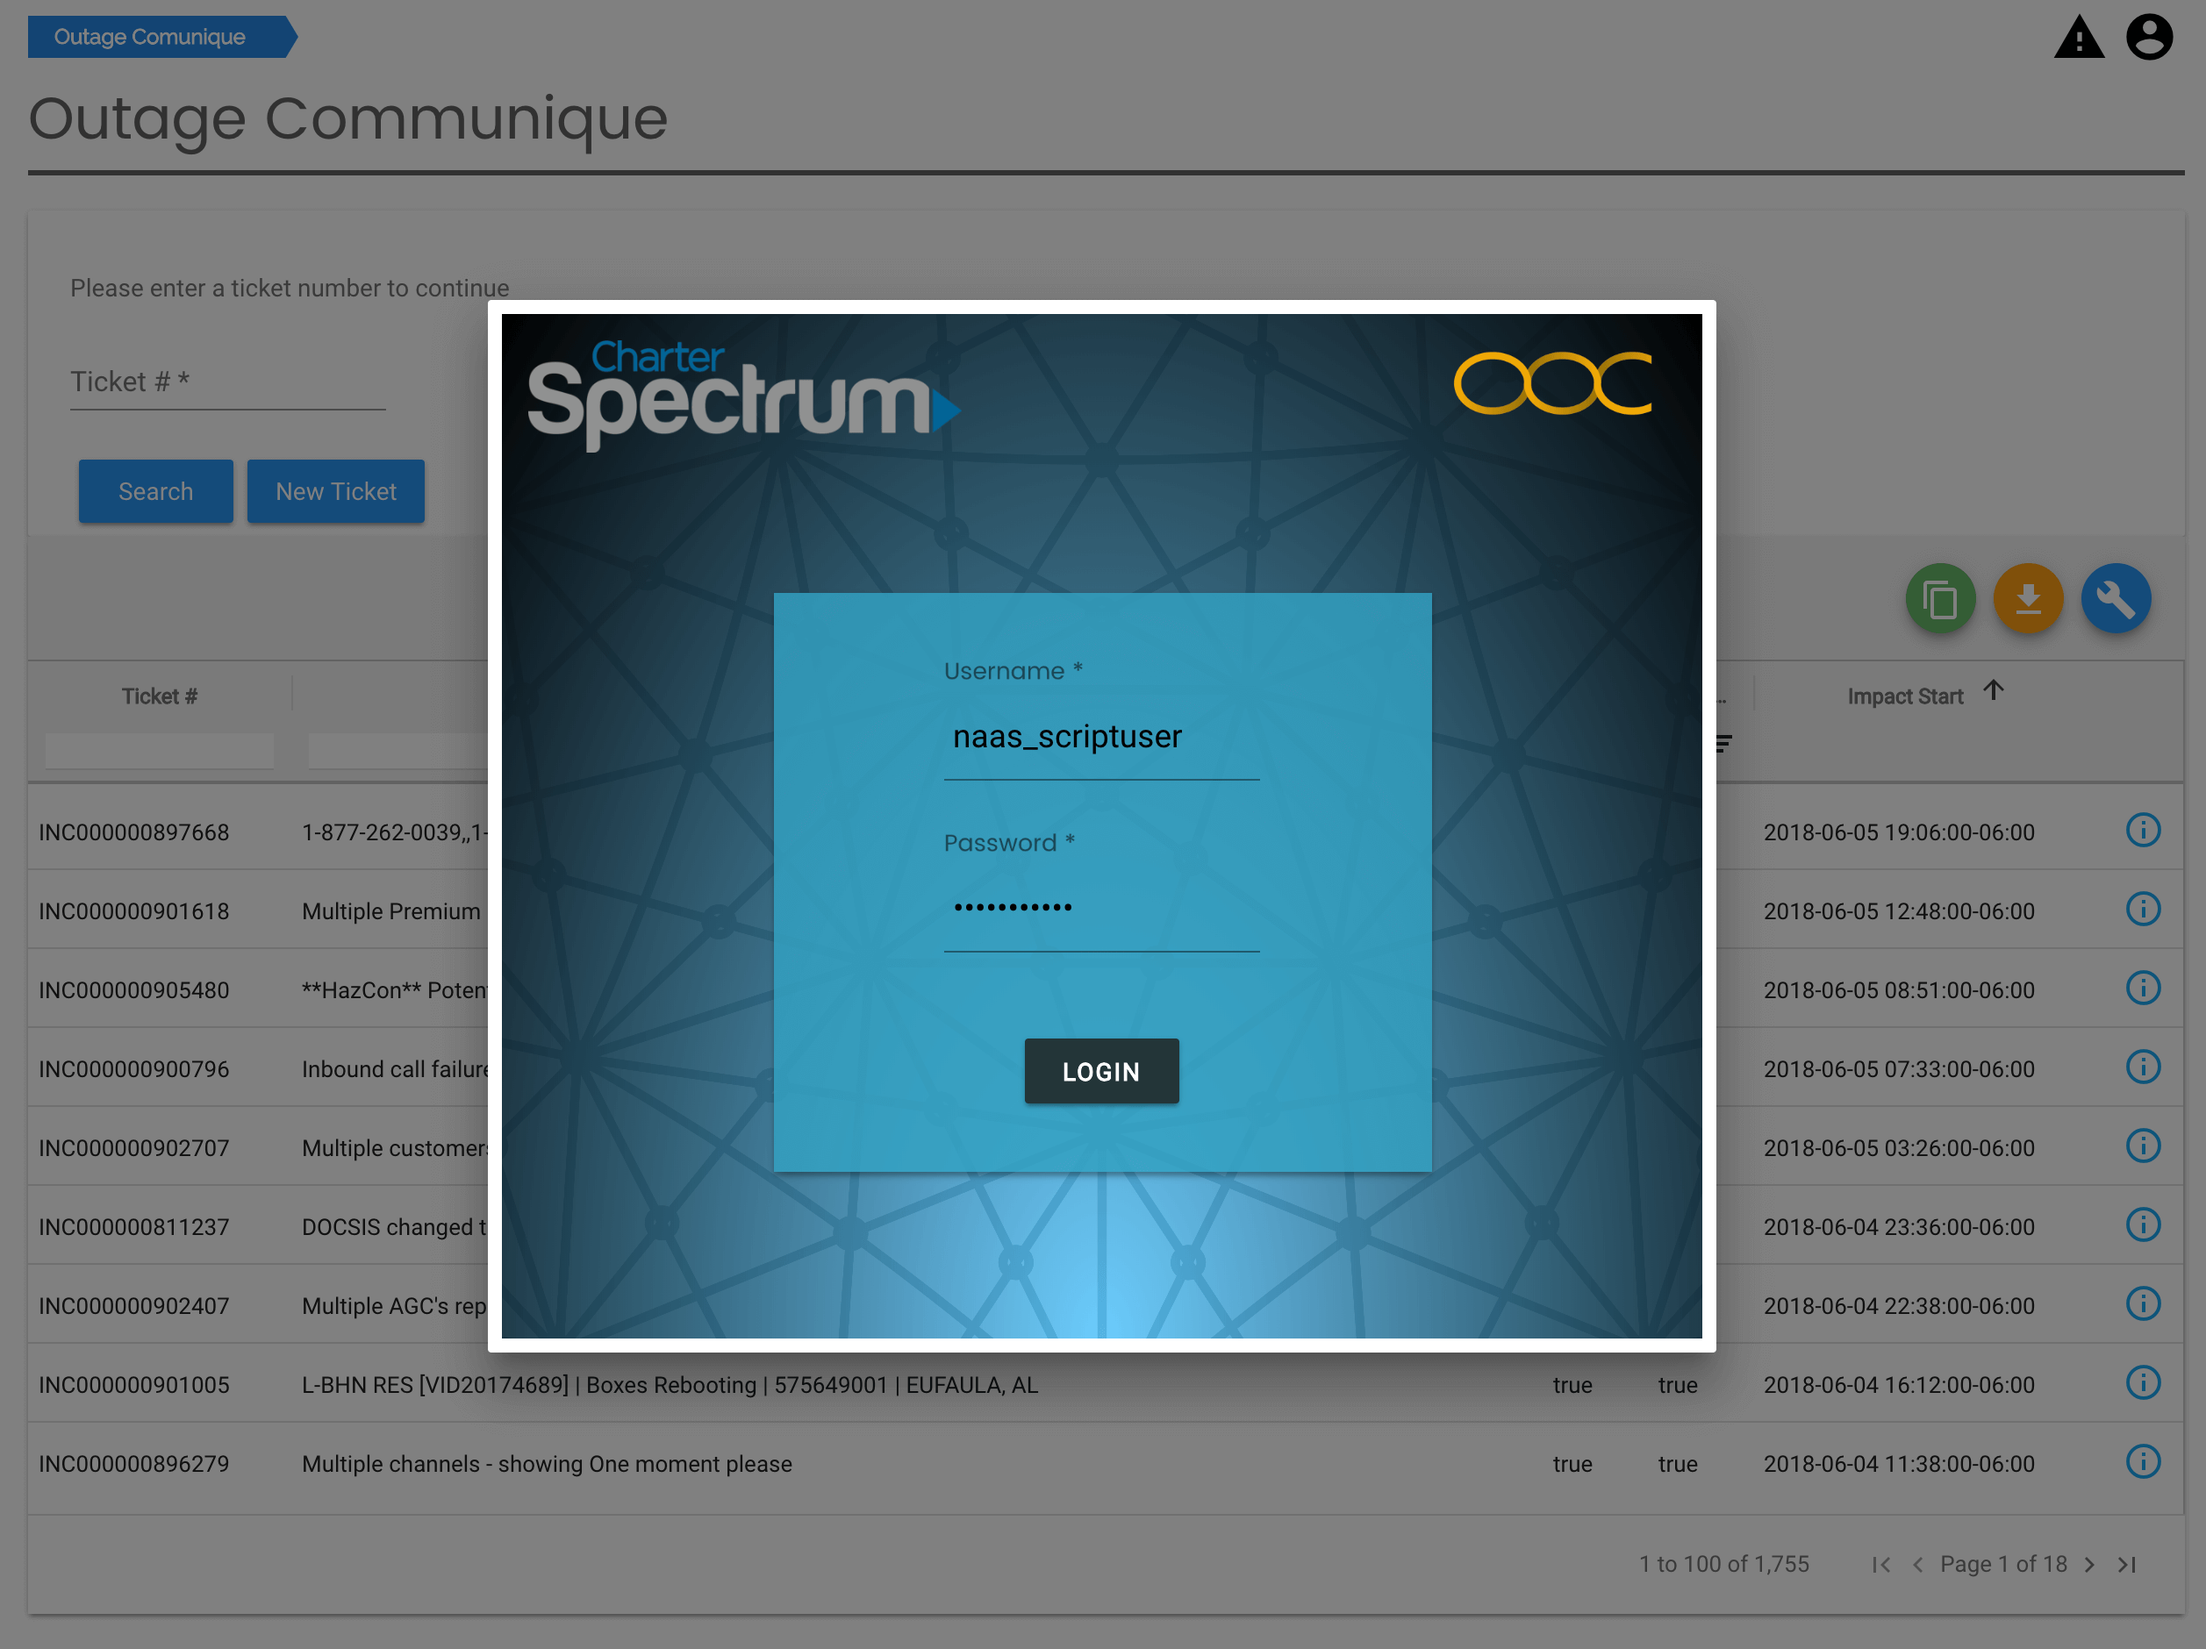
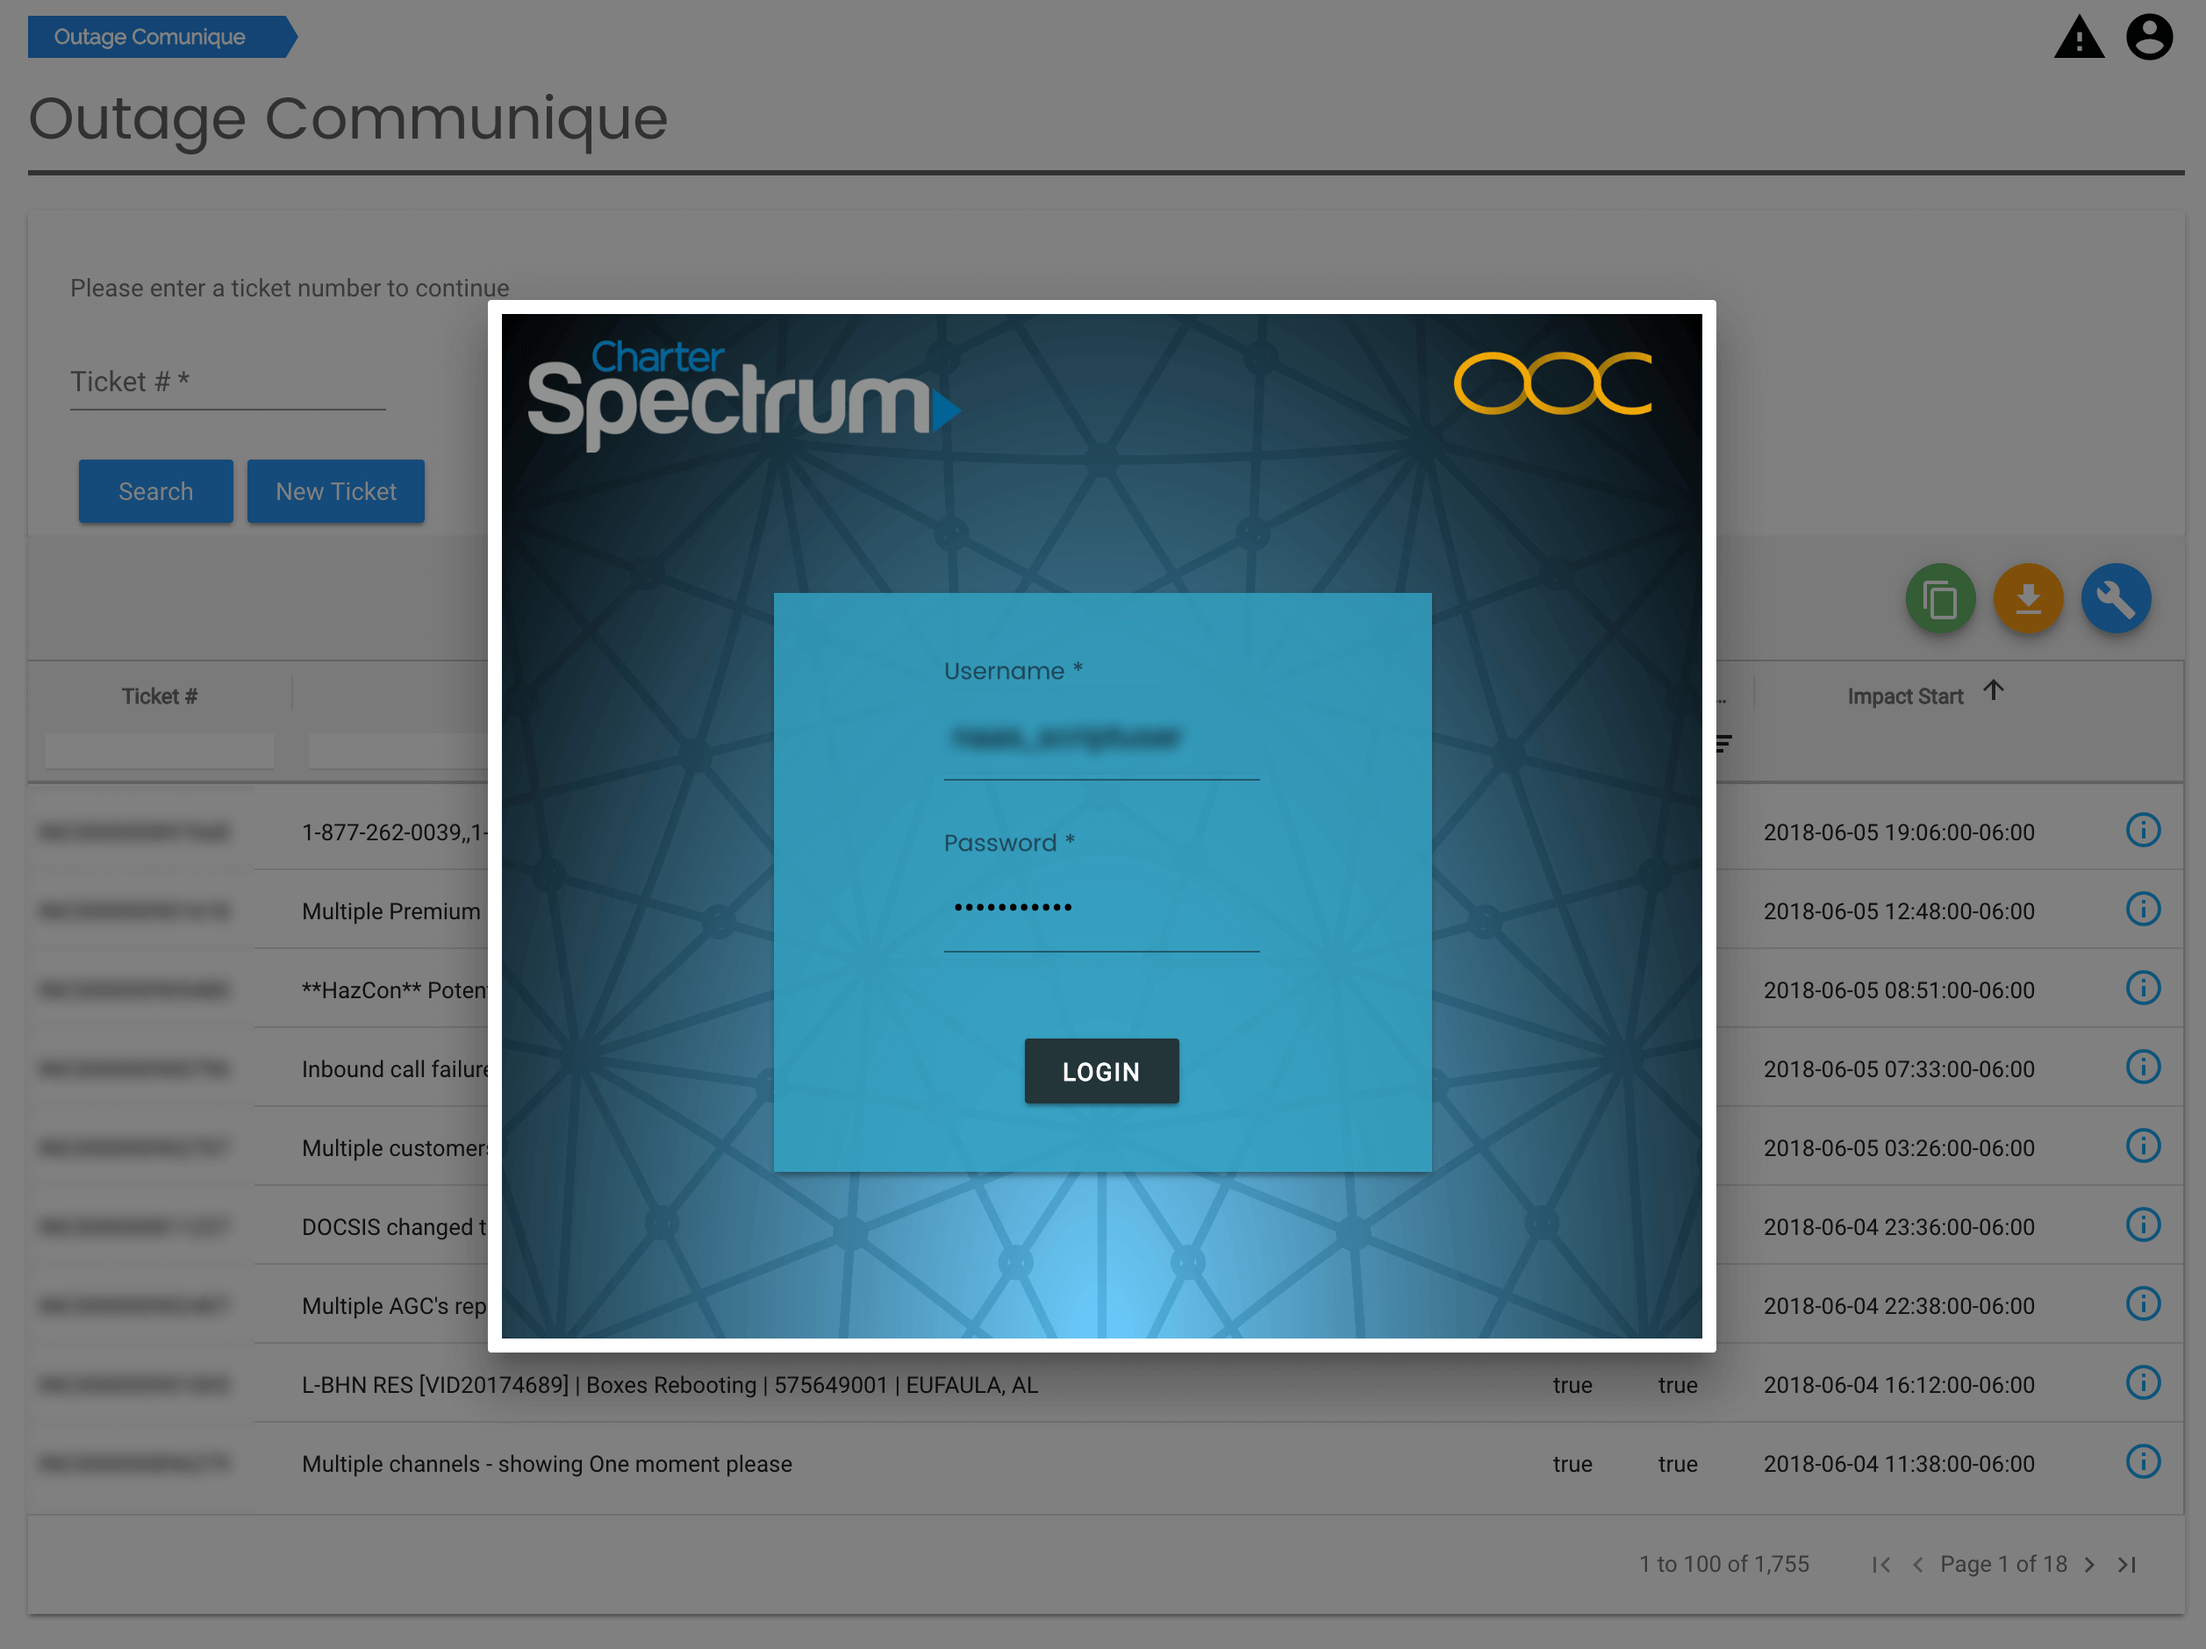
update gif held in dropbox for ooc for security purposes

diff --git a/src/app/components/Projects/Projects-Data.js b/src/app/components/Projects/Projects-Data.js
@@ -18,7 +18,8 @@ const ProjectsData = [
     title: 'OOC - Opperations Outage Comunique',
     description: 'Enterprise software built with Angular2/4/5 leveraging Typescript, RxJS, AgGrid, Material Design, Express Gateway and a plethora of libraries. Created to give Advanced Engineering Opperations Dept an internal ticketing system for outages and troublshooting.',
     image: './Project-Images/ooc.png',
-    gifLink:'http://g.recordit.co/edkTDSb1xE.gif',
+    gifLink:'https://dl.dropboxusercontent.com/s/5luwynxqmc9jfp0/ooc-cleaned.gif?dl=0',
+    // gifLink:'http://g.recordit.co/edkTDSb1xE.gif',
     gitHubRepo: '',
     siteURL: '',
     techUsed: ['Angular 2/4/5 ', 'Javascript ', 'Typescript ', 'RxJS ', 'Material Design ', 'RethinkDB ', 'AgGrid ', 'HTML5 ', 'SASS '],

diff --git a/src/app/components/Projects/Projects.js b/src/app/components/Projects/Projects.js
@@ -110,9 +110,10 @@ const Projects = ({ toggleModal }) => {
     <section id="projects">
       <h2>Projects</h2>
       <div className="projects-wrapper">{allProjects}</div>
-      <MainView/>
     </section>
   );
 };
 
 export default Projects;
+
+// {/* <MainView/> */}
